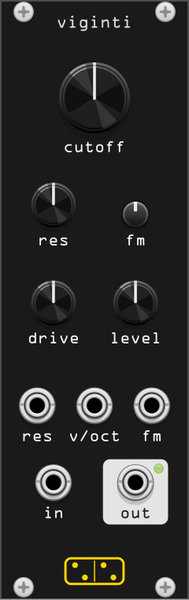
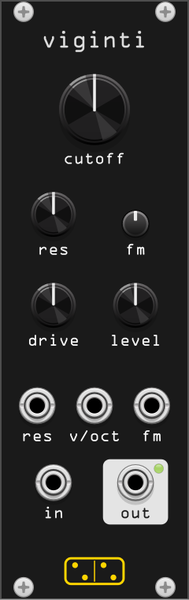
fix(viginti): title at the house size, on a rebalanced panel
The title was being auto-shrunk to 2.3mm to fit between the screws, which
read as a mistake rather than as the constraint it was. It now sits at the
full 3.2mm with its baseline at y=10, below the screw band, and the three
knob rows are respaced to an even 6.2mm rhythm underneath it: cutoff 21 to
23.5, res 44 to 46, fm 46 to 48, drive/level 65 to 65.5. The jack block and
the logo do not move, and keep the wider gap that separates them from the
controls.

Claude-Session: https://claude.ai/code/session_01XJnnZWwVUvyoRqaXzf7SYY

diff --git a/src/viginti.cpp b/src/viginti.cpp
@@ -195,7 +195,7 @@ struct VigintiWidget : ModuleWidget {
         setModule(module);
         setPanel(createPanel(asset::plugin(pluginInstance, "res/viginti.svg")));
 
-// @layout:begin viginti 40.64 128.5
+// @layout:begin viginti 40.64 128.5 titley=10.0
 // @elem SCREW_TL ScrewSilver 3.5 screw "" 0.0
 // @elem SCREW_TR ScrewSilver 3.5 screw "" 0.0
 // @elem SCREW_BL ScrewSilver 3.5 screw "" 0.0
@@ -211,11 +211,11 @@ struct VigintiWidget : ModuleWidget {
 // @elem RES_CV_INPUT PJ301MPort 4.01 input "" 0.0
 // @elem AUDIO_OUTPUT PJ301MPort 4.01 output "" 0.0
 // @elem LEVEL_LIGHT SmallLight 1.0 light "" 0.0
-// @elem LABEL_CUTOFF label 0.0 label "cutoff" 0.0 20.32 32.50
-// @elem LABEL_RES label 0.0 label "res" 0.0 11.50 52.50
-// @elem LABEL_FM label 0.0 label "fm" 0.0 29.14 52.50
-// @elem LABEL_DRIVE label 0.0 label "drive" 0.0 11.50 73.50
-// @elem LABEL_LEVEL label 0.0 label "level" 0.0 29.14 73.50
+// @elem LABEL_CUTOFF label 0.0 label "cutoff" 0.0 20.32 35.00
+// @elem LABEL_RES label 0.0 label "res" 0.0 11.50 54.50
+// @elem LABEL_FM label 0.0 label "fm" 0.0 29.14 54.50
+// @elem LABEL_DRIVE label 0.0 label "drive" 0.0 11.50 74.00
+// @elem LABEL_LEVEL label 0.0 label "level" 0.0 29.14 74.00
 // @elem LABEL_IN label 0.0 label "in" 0.0 11.50 111.00
 // @elem LABEL_VOCT label 0.0 label "v/oct" 0.0 20.32 94.50
 // @elem LABEL_FMIN label 0.0 label "fm" 0.0 32.64 94.50
@@ -228,11 +228,11 @@ struct VigintiWidget : ModuleWidget {
         addChild(createWidget<ScrewSilver>(mm2px(Vec(33.02f, 0.00f)))); // SCREW_TR
         addChild(createWidget<ScrewSilver>(mm2px(Vec(2.54f, 123.42f)))); // SCREW_BL
         addChild(createWidget<ScrewSilver>(mm2px(Vec(33.02f, 123.42f)))); // SCREW_BR
-        addParam(createParamCentered<RoundBigBlackKnob>(mm2px(Vec(20.32f, 21.00f)), module, Viginti::CUTOFF_PARAM));
-        addParam(createParamCentered<RoundBlackKnob>(mm2px(Vec(11.50f, 44.00f)), module, Viginti::RES_PARAM));
-        addParam(createParamCentered<Trimpot>(mm2px(Vec(29.14f, 46.00f)), module, Viginti::FM_PARAM));
-        addParam(createParamCentered<RoundBlackKnob>(mm2px(Vec(11.50f, 65.00f)), module, Viginti::DRIVE_PARAM));
-        addParam(createParamCentered<RoundBlackKnob>(mm2px(Vec(29.14f, 65.00f)), module, Viginti::LEVEL_PARAM));
+        addParam(createParamCentered<RoundBigBlackKnob>(mm2px(Vec(20.32f, 23.50f)), module, Viginti::CUTOFF_PARAM));
+        addParam(createParamCentered<RoundBlackKnob>(mm2px(Vec(11.50f, 46.00f)), module, Viginti::RES_PARAM));
+        addParam(createParamCentered<Trimpot>(mm2px(Vec(29.14f, 48.00f)), module, Viginti::FM_PARAM));
+        addParam(createParamCentered<RoundBlackKnob>(mm2px(Vec(11.50f, 65.50f)), module, Viginti::DRIVE_PARAM));
+        addParam(createParamCentered<RoundBlackKnob>(mm2px(Vec(29.14f, 65.50f)), module, Viginti::LEVEL_PARAM));
         addInput(createInputCentered<PJ301MPort>(mm2px(Vec(11.50f, 103.50f)), module, Viginti::AUDIO_INPUT));
         addInput(createInputCentered<PJ301MPort>(mm2px(Vec(20.32f, 87.00f)), module, Viginti::VOCT_INPUT));
         addInput(createInputCentered<PJ301MPort>(mm2px(Vec(32.64f, 87.00f)), module, Viginti::FM_INPUT));
